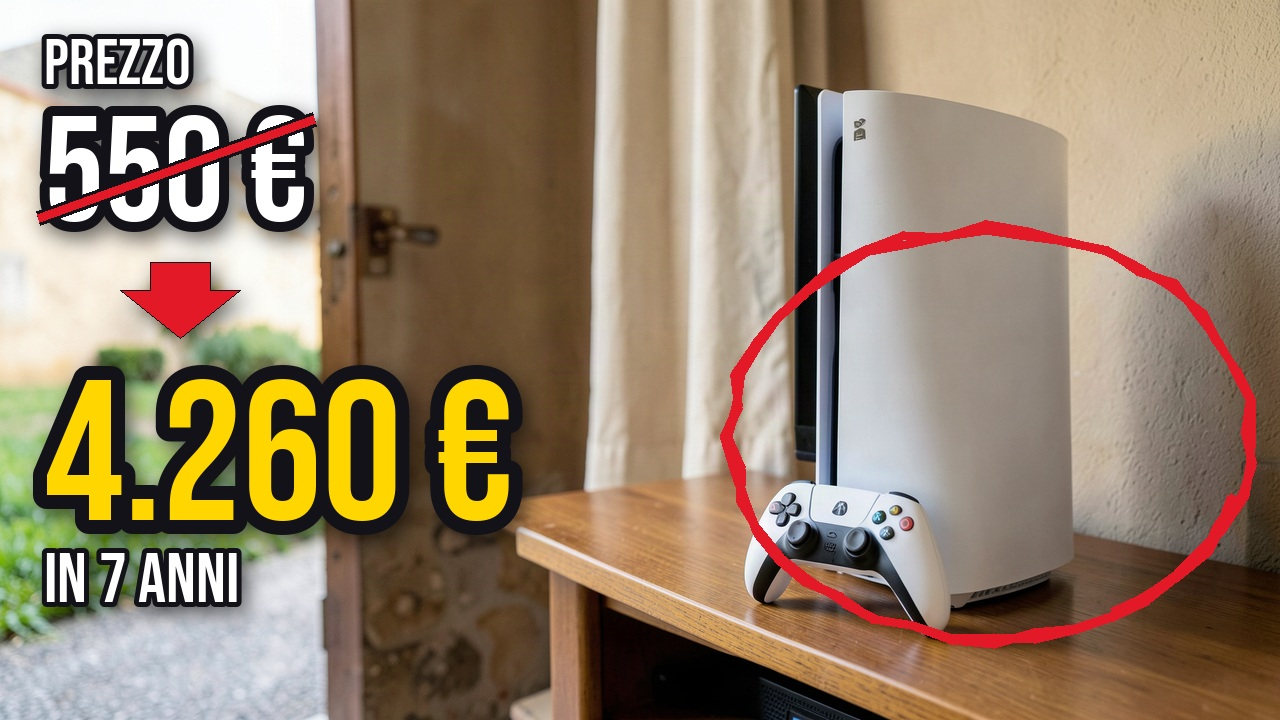
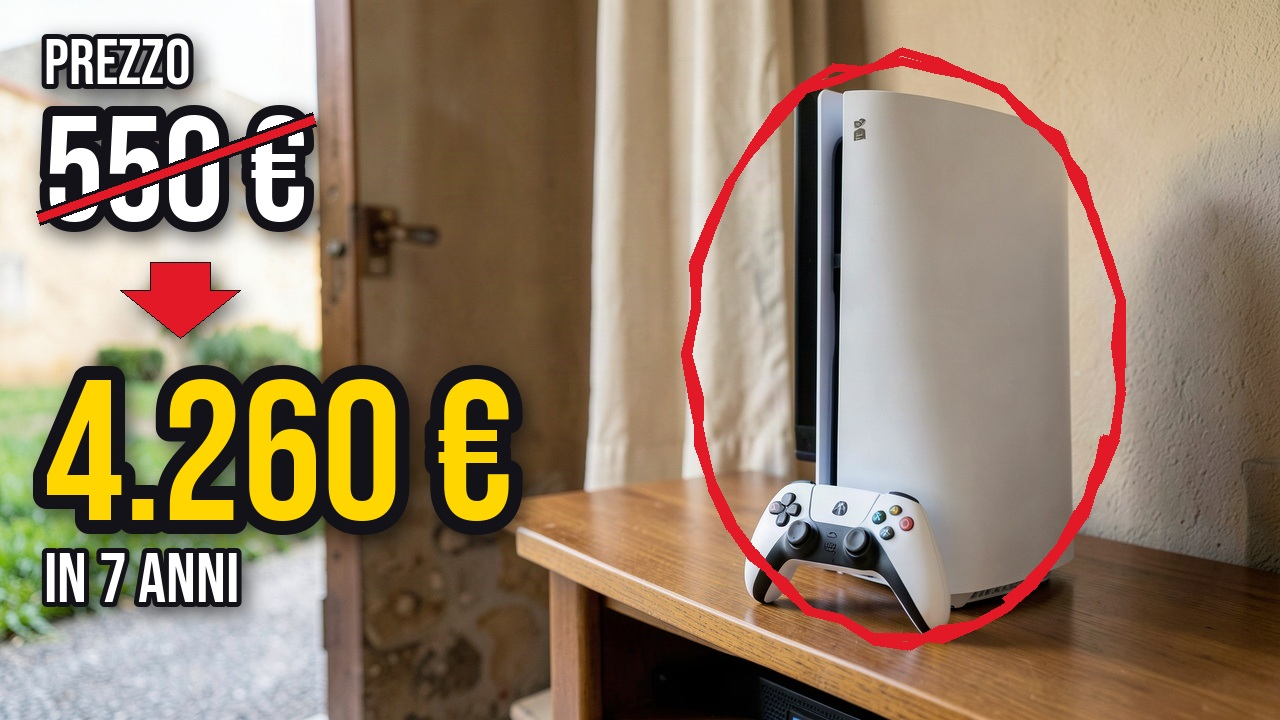
Costo Vero foto 2C: cerchio stretto sul soggetto (Haiku trova dove sta); copertine PS5 e SUV sistemate
Claude-Session: https://claude.ai/code/session_013ApoDmMcM7xnohpDpgQ76W

Changed region(s): [[0.5312, 0.0611, 1.0, 0.9167]]

diff --git a/strumenti/copertina_possesso_foto.py b/strumenti/copertina_possesso_foto.py
@@ -45,6 +45,25 @@ def foto(prodotto, sx):
     raise RuntimeError('foto copertina non riuscita')
 
 
+def box_soggetto(im, cosa):
+    """Dove sta il soggetto nella foto (Claude Haiku, ~0,001 $): il cerchio rosso lo stringe da vicino invece di stare in un punto fisso."""
+    import base64, json, re
+    try:
+        buf = io.BytesIO(); im.convert('RGB').resize((640, 360)).save(buf, 'JPEG', quality=85)
+        r = YT.http('https://api.anthropic.com/v1/messages', {'model': 'claude-haiku-4-5-20251001', 'max_tokens': 120, 'messages': [{'role': 'user', 'content': [
+            {'type': 'image', 'source': {'type': 'base64', 'media_type': 'image/jpeg', 'data': base64.b64encode(buf.getvalue()).decode()}},
+            {'type': 'text', 'text': f'Image 640x360. Bounding box of the main subject ({cosa or "the main object"}). Answer ONLY {{"box": [x1, y1, x2, y2]}}.'}]}]},
+            {'x-api-key': E('ANTHROPIC_API_KEY'), 'anthropic-version': '2023-06-01'}, timeout=60)
+        CO.registra('claude', 'claude-haiku-4-5-20251001', usage=r.get('usage'), nota='box soggetto copertina')
+        b = json.loads(re.search(r'\{.*\}', r['content'][0]['text'], re.S).group(0))['box']
+        x1, y1, x2, y2 = [float(v) * 2 for v in b]
+        mx, my = (x2 - x1) * .12, (y2 - y1) * .12   # un po' d'aria intorno
+        return (max(10, x1 - mx), max(10, y1 - my), min(W - 10, x2 + mx), min(H - 10, y2 + my))
+    except Exception as e:
+        print('box del soggetto non trovato:', str(e)[:100], flush=True)
+        return None
+
+
 def cerchio(d, box, seme=3):
     random.seed(seme)
     cx, cy, rx, ry = (box[0] + box[2]) / 2, (box[1] + box[3]) / 2, (box[2] - box[0]) / 2, (box[3] - box[1]) / 2
@@ -59,7 +78,8 @@ def crea(p):
     scritte_sx = str(p.get('lato') or 'sx') == 'sx'
     im = (p.get('immagine') or foto(p['prodotto'], sx=not scritte_sx)).convert('RGBA')
     d0 = ImageDraw.Draw(im)
-    cerchio(d0, (730, 230, 1250, 640) if scritte_sx else (40, 200, 560, 610), seme=int(p.get('seme') or 3))   # il cerchio sul soggetto
+    box = p.get('box') or (box_soggetto(im, p.get('prodotto')) if E('ANTHROPIC_API_KEY') else None) or ((730, 230, 1250, 640) if scritte_sx else (40, 200, 560, 610))
+    cerchio(d0, box, seme=int(p.get('seme') or 3))   # il cerchio stretto intorno al soggetto
     lay = Image.new('RGBA', im.size, (0, 0, 0, 0)); d = ImageDraw.Draw(lay)
     prezzo, vero, anni = float(p.get('prezzo') or 0), float(p['costo_vero']), int(p.get('anni') or 0)
     x0 = 44 if scritte_sx else 760
